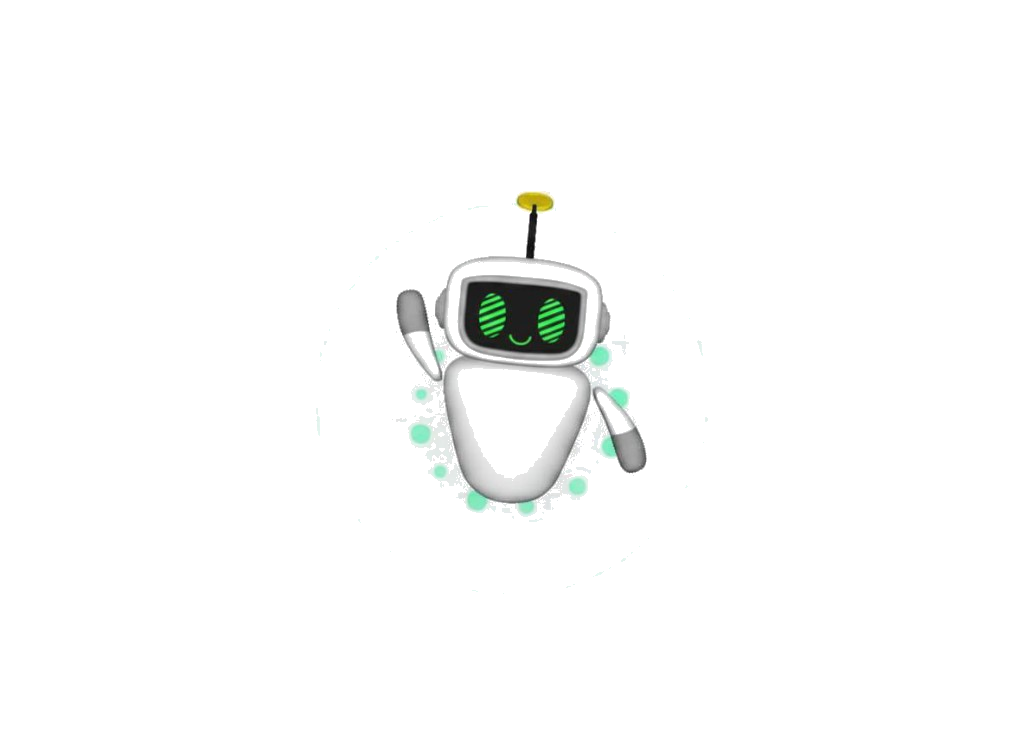
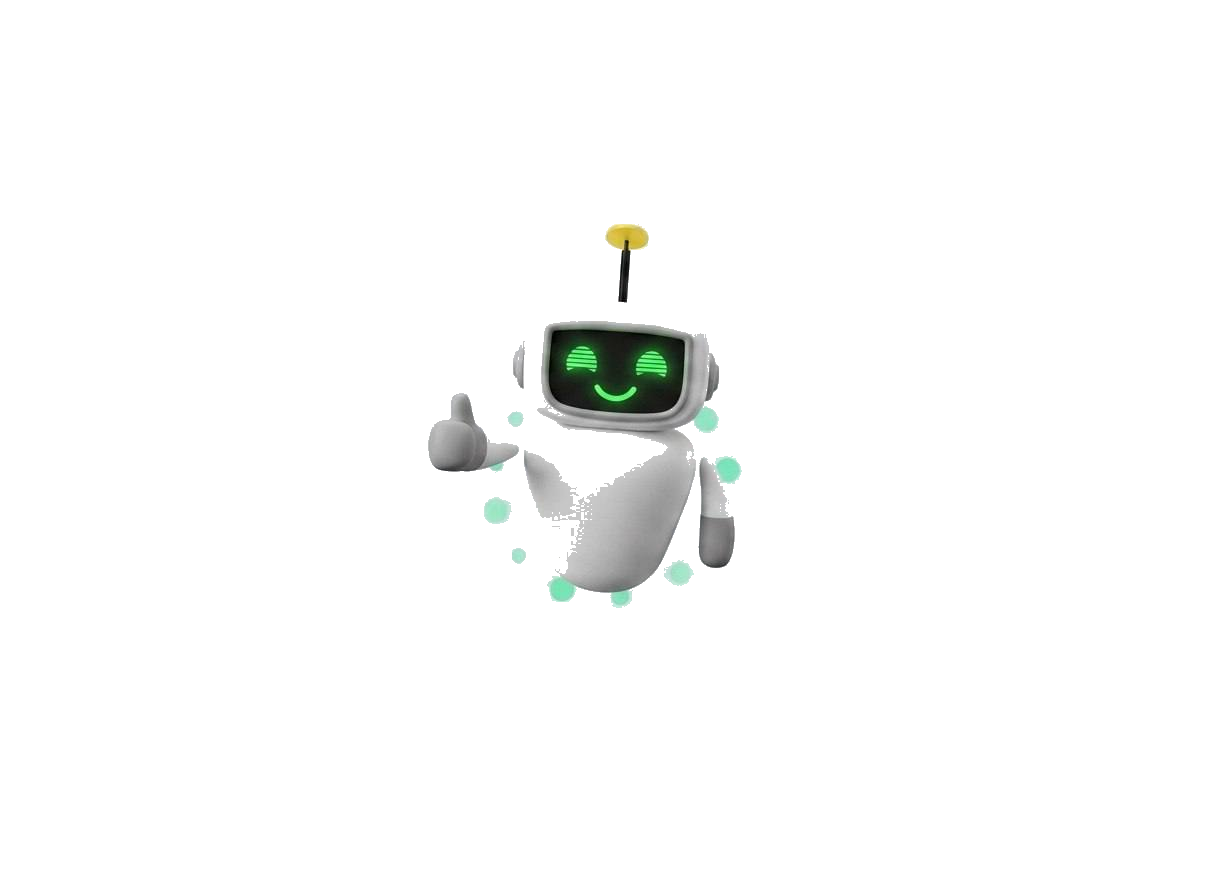
fix: aggressively remove white background from mascot and add cache buster

Changed region(s): [[0.3438, 0.2463, 0.6562, 0.7082]]

diff --git a/bot-compound-climb/game.js b/bot-compound-climb/game.js
@@ -81,7 +81,7 @@ let stars = [];
 
 // Mascot image
 const mascotImg = new Image();
-mascotImg.src = 'assets/mascot/operator-transparent.png';
+mascotImg.src = 'assets/mascot/operator-transparent.png?v=2';
 
 // Colors (MoneyBot Palette)
 const COLORS = {